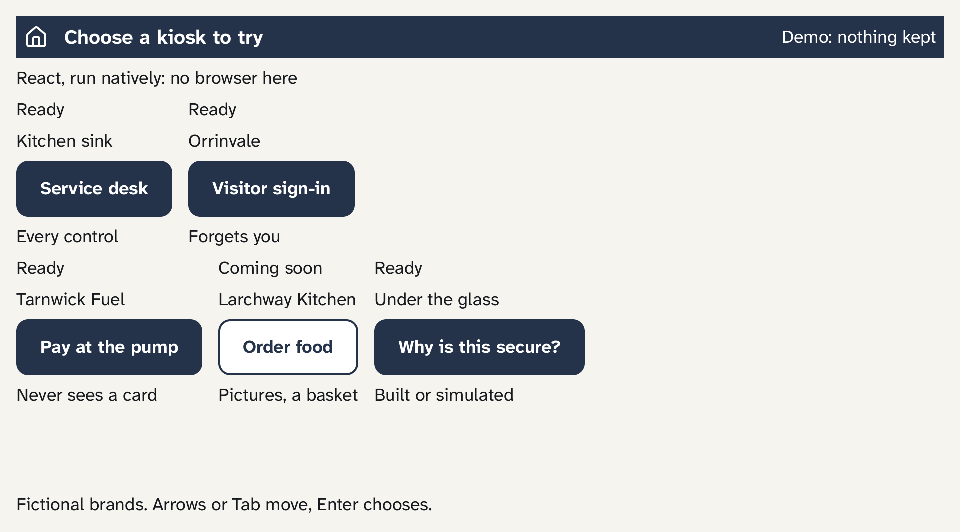
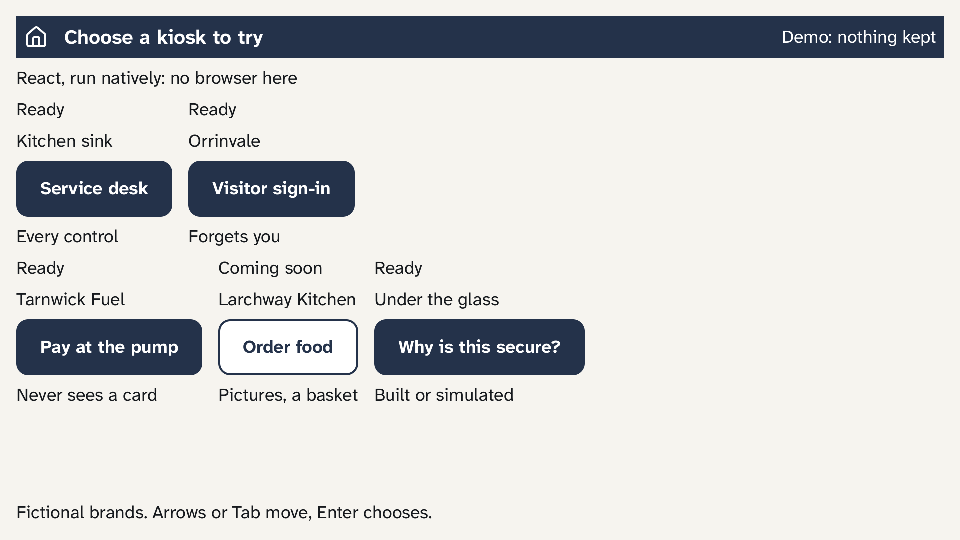
Screens fill the Pi 5's whole monitor: 1920 x 1080, 960 x 540 at scale 2
NoWayOS's window from row 0; expected lines and the README picture redrawn.

diff --git a/showcase/showcase-app/tests/preview.rs b/showcase/showcase-app/tests/preview.rs
@@ -1,6 +1,6 @@
 // SPDX-License-Identifier: MIT OR Apache-2.0
 //! The showcase's screens drawn as the Pi draws them - each in its own
-//! brand's theme, at the monitor's own pixels: the 1920 x 1064
+//! brand's theme, at the monitor's own pixels: the 1920 x 1080
 //! window at device scale 2 - to images a person can look at before
 //! the board does: set `SHOWCASE_PREVIEW_DIR` to a folder, and each
 //! screen is written there as a PNG, the launcher and each example's
@@ -28,7 +28,7 @@ use showcase_pump::generated::{
 use showcase_pump::{Approval, Stage, figures};
 
 /// The Pi 5's window.
-const WINDOW: nowayos_display::Rect = nowayos_display::Rect::new(0, 0, 1920, 1064);
+const WINDOW: nowayos_display::Rect = nowayos_display::Rect::new(0, 0, 1920, 1080);
 
 fn draw_tree<const N: usize>(tree: &Tree<N>, theme: &Theme<Rgb888>, name: &str) {
     let size = tree.viewport().size;
@@ -113,7 +113,7 @@ fn fresh() -> Showcase {
 #[test]
 fn every_pump_screen_draws() {
     let theme = brands::TARNWICK.theme();
-    let viewport = nowayos_display::Rect::new(0, 0, 1920, 1064);
+    let viewport = nowayos_display::Rect::new(0, 0, 1920, 1080);
     let approval = Approval {
         pump: 3,
         fuel: 0,

diff --git a/kiosk/showcase-kiosk-screens/tests/screens.rs b/kiosk/showcase-kiosk-screens/tests/screens.rs
@@ -7,8 +7,8 @@
 //!
 //! The kiosk's layout size is 800 x 480, where a screen must fit. Each
 //! screen is also laid out at 1920 x 1080, and as the Pi 5's monitor shows
-//! it, drawn at its own pixels: the 1920 x 1064 window at device
-//! scale 2 - a 960 x 532 screen - with each font's atlas twice the size,
+//! it, drawn at its own pixels: the 1920 x 1080 window at device
+//! scale 2 - a 960 x 540 screen - with each font's atlas twice the size,
 //! and must fit there too.
 //! Each is checked as it is built - every group hidden and every slot empty -
 //! and as the application may show it: every group visible, every slot
@@ -34,7 +34,7 @@ use showcase_kiosk_screens::generated::{Build, CAPACITY, SCREENS};
 const VIEWPORTS: [(&str, Rect, u32); 3] = [
     ("800 x 480", Rect::new(0, 0, 800, 480), 1),
     ("1920 x 1080", Rect::new(0, 0, 1920, 1080), 1),
-    ("960 x 532 at 2x", Rect::new(0, 0, 1920, 1064), 2),
+    ("960 x 540 at 2x", Rect::new(0, 0, 1920, 1080), 2),
 ];
 
 /// NoWayOS's two themes, as the UI PDs lay screens out with them.

diff --git a/showcase/showcase-app/tests/screens.rs b/showcase/showcase-app/tests/screens.rs
@@ -7,7 +7,7 @@
 //!
 //! The showcase draws in the light theme, its body text 18 px. On
 //! the Pi 5 it is laid out at the monitor's own pixels: the 1920 x
-//! 1064 window at device scale 2, a 960 x 532 screen, its text from the 36
+//! 1080 window at device scale 2, a 960 x 540 screen, its text from the 36
 //! px atlas - so each screen must fit there, and at the kiosk's 800 x 480
 //! layout size, in that theme, and at 1920 x 1080 in both of NoWayOS's
 //! themes, each with its own metrics: type scale, minimum target size and
@@ -39,8 +39,8 @@ fn cases() -> [(&'static str, Rect, TextMetrics); 4] {
     let large = Theme::<Rgb888>::high_contrast();
     [
         (
-            "960 x 532 at 2x, light",
-            Rect::new(0, 0, 1920, 1064),
+            "960 x 540 at 2x, light",
+            Rect::new(0, 0, 1920, 1080),
             light.metrics_at(2),
         ),
         (

diff --git a/showcase/showcase-app/tests/showcase.rs b/showcase/showcase-app/tests/showcase.rs
@@ -508,11 +508,11 @@ fn each_example_shows_in_its_brand_and_home_restores_the_launchers() {
 
 /// Laid out in the Pi 5's window at device scale 2 - as the UI PD
 /// does once the display announces it - the launcher and the Service desk
-/// both fill the 1920 x 1064 window at scale 2, before and after Home, and
+/// both fill the 1920 x 1080 window at scale 2, before and after Home, and
 /// everything they show fits it.
 #[test]
 fn the_launcher_and_the_service_desk_follow_the_displays_scale() {
-    let window = Rect::new(0, 0, 1920, 1064);
+    let window = Rect::new(0, 0, 1920, 1080);
     let mut stand = Stand::new();
     let large = TextMetrics::from_atlas(&REGULAR_48)
         .with_scale(2)

diff --git a/kiosk/showcase-kiosk-screens/src/sink.rs b/kiosk/showcase-kiosk-screens/src/sink.rs
@@ -61,7 +61,7 @@ use crate::generated::{
 
 /// Screen width, in pixels: the kiosk's layout size, which the tour is laid
 /// out in until the display announces its own ([`KitchenSink::resize`]):
-/// on the Pi 5, 1920 x 1064 at device scale 2, drawn at the monitor's own
+/// on the Pi 5, 1920 x 1080 at device scale 2, drawn at the monitor's own
 /// pixels.
 pub const WIDTH: u32 = 800;
 /// Screen height, in pixels.

diff --git a/kiosk/showcase-kiosk-screens/tests/sink.rs b/kiosk/showcase-kiosk-screens/tests/sink.rs
@@ -122,7 +122,7 @@ fn the_tour_follows_the_displays_layout_and_scale() {
     assert_eq!(key(&mut sink, KeyCode::ENTER), Some(START));
     assert_eq!(sink.screen(), "step-text");
     type_text(&mut sink, "ada");
-    let window = Rect::new(0, 0, 1920, 1064);
+    let window = Rect::new(0, 0, 1920, 1080);
     let large = TextMetrics::from_atlas(&REGULAR_48)
         .with_scale(2)
         .with_min_target(48);

diff --git a/DEVELOPING.md b/DEVELOPING.md
@@ -10,10 +10,10 @@ What is in Showcase, how it uses NoWayOS, and how to build and test it. What Sho
 | --- | --- | --- |
 | `kiosk/showcase-kiosk-flow` | The state machine behind a multi-step form kiosk. The application defines the steps and fields. The flow handles next, back and cancel, a review of every answer, answers that are bounded and checked as they are entered, and submission with a timeout and a limited number of retries. After a set time with no activity, or when a session reaches its maximum length, it wipes every answer, so the next person at a shared public kiosk never sees them; late timers and a clock that goes backwards cannot postpone that. `no_std`, no allocation, no `unsafe`, and no third-party code at run time | First cut, API provisional |
 | `kiosk/showcase-kiosk-contract` | The kiosk's app-UI contract: the records the kiosk's UI and application protection domains exchange over `nowayos-ipc` rings. Actions from the UI (start, a value typed, chosen or ticked, next, back, submit, cancel and so on) and reports from the application (the screen to show, a refused value, the idle warning, a countdown's time left once a second, and a session-ended record), each a fixed-size record with its own kind and version, checked on receipt with typed errors. The application's end drives `showcase-kiosk-flow`, ends the session when the UI sends a record it cannot decode, and sends exactly one session-ended record, with the reason and no answer, however a session ends. Answers travel only from the UI to the application. `no_std`, no allocation, no `unsafe` | First cut, version 1 |
-| `kiosk/showcase-kiosk-screens` | The kiosk reference screens: a synthetic, sector-neutral screen in TSX (`tsx/`) for each phase of the form flow (welcome, a step, review, submitting, submitted, failed, and the idle warning) and each kind of field (text, a choice, checkboxes, a notice with none), importing only from Screen Compiler's kit. All ten convert (with Screen Compiler's subset v1: conditional rendering, text from props, checkboxes, radio groups, input lengths and modes). The Rust Screen Compiler generates is checked in (`src/generated`) and built here against NoWayOS's UI core; each screen fits 800 x 480 (the kiosk's layout size), 1920 x 1080, and 960 x 532 at device scale 2 - the Pi 5's monitor drawn at its own pixels - in both of NoWayOS's themes, with each theme's own metrics - its type scale (body text 18 px and 24 px, at 2x from the 36 and 48 px atlases), its minimum target size and its buttons' height, as built and with every group shown and slot filled, with no fixed text cut. `gaps.txt` ranks what Screen Compiler refuses by how many screens each gap blocks: nothing now. `make screens` runs Screen Compiler on every screen and fails if either differs. `sink` is the kitchen sink: the ten screens toured with their own buttons, shaped like NoWayOS's clickable demo (`new(metrics)`, `tree`, `handle`, `action_name`; laid out at 800 x 480 until the display announces its layout and scale, `resize`) so a copy of its UI PD can show it - a demo driver, not the kiosk's flow. The reference kiosk puts the screens behind the flow: `form`, the form they ask for (four steps, six fields) and the kiosk's timeouts; `app`, what the application PD does - the flow behind the contract, the privacy reset applied when due whatever room the ring has, and out of service, the session ended, at a fault the PD finds (a timer error, a refused wake-up, a broken ring); `kiosk`, the UI that shows the screen each report from the application names and sends each action the person takes, keeping its own copies of the answers and wiping them in place - and any action not yet sent - when a session ends, and failing closed (everything wiped, the session abandoned) on a report it cannot trust; `stand_in`, a development stand-in for the service, which leaves each session's first attempt unanswered and accepts the next | First cut |
+| `kiosk/showcase-kiosk-screens` | The kiosk reference screens: a synthetic, sector-neutral screen in TSX (`tsx/`) for each phase of the form flow (welcome, a step, review, submitting, submitted, failed, and the idle warning) and each kind of field (text, a choice, checkboxes, a notice with none), importing only from Screen Compiler's kit. All ten convert (with Screen Compiler's subset v1: conditional rendering, text from props, checkboxes, radio groups, input lengths and modes). The Rust Screen Compiler generates is checked in (`src/generated`) and built here against NoWayOS's UI core; each screen fits 800 x 480 (the kiosk's layout size), 1920 x 1080, and 960 x 540 at device scale 2 - the Pi 5's monitor drawn at its own pixels - in both of NoWayOS's themes, with each theme's own metrics - its type scale (body text 18 px and 24 px, at 2x from the 36 and 48 px atlases), its minimum target size and its buttons' height, as built and with every group shown and slot filled, with no fixed text cut. `gaps.txt` ranks what Screen Compiler refuses by how many screens each gap blocks: nothing now. `make screens` runs Screen Compiler on every screen and fails if either differs. `sink` is the kitchen sink: the ten screens toured with their own buttons, shaped like NoWayOS's clickable demo (`new(metrics)`, `tree`, `handle`, `action_name`; laid out at 800 x 480 until the display announces its layout and scale, `resize`) so a copy of its UI PD can show it - a demo driver, not the kiosk's flow. The reference kiosk puts the screens behind the flow: `form`, the form they ask for (four steps, six fields) and the kiosk's timeouts; `app`, what the application PD does - the flow behind the contract, the privacy reset applied when due whatever room the ring has, and out of service, the session ended, at a fault the PD finds (a timer error, a refused wake-up, a broken ring); `kiosk`, the UI that shows the screen each report from the application names and sends each action the person takes, keeping its own copies of the answers and wiping them in place - and any action not yet sent - when a session ends, and failing closed (everything wiped, the session abandoned) on a report it cannot trust; `stand_in`, a development stand-in for the service, which leaves each session's first attempt unanswered and accepts the next | First cut |
 | `pds/kiosk` (`showcase-kiosk-stand-in`), `pds/kiosk-ui` (`showcase-kiosk-ui`) | The reference kiosk (`systems/kiosk.system` and its Pi 5 variant, `systems/rpi5b_2gb/`): the application PD runs `showcase-kiosk-flow` on the reference form behind the app-UI contract's application end, woken by the timer PD at each deadline - the idle warning after 15 s with no input, the privacy reset 15 s later, a submission's 5 s timeout, and each second of a countdown - and asks the service stand-in, never sending the answers anywhere; the UI PD shows the screen the application names, on NoWayOS's UI loop - and the seconds left of the idle warning and the confirmation, each second as the application reports them, changing only the digits that change - only they are drawn and copied to the display, their size logged - and sends it what the person does over two rings. Both fail closed on the faults they find: the application, at a timer error, a refused wake-up or a broken ring, ends the session and goes out of service; the UI, at a report it cannot decode, wipes everything, abandons the session and shows the welcome screen, and at a broken ring or display contract also goes out of service at once, then presents that screen when the display can take it - if it cannot, the screen may still show the last frame. A timer that goes silent, or a PD that faults, is left to a watchdog and a supervisor, which this demo system does not have. The same display, input broker, UART input, USB host and timer PDs as the kitchen sink. No device, interrupt or physical address in either (roles `app` and `ui`), no heap, no `unsafe`. A demo system: the UART input PD is a development route, and the service a stand-in built into the application PD's program, named `showcase-kiosk-stand-in` so that NoWayOS's development-only rule (`*-stand-in.elf`) refuses it in a product system | First cut |
 | `pds/screens-ui` (`showcase-screens-ui`), `pds/display`, `pds/input-broker`, `pds/uart-input`, `pds/usb-host`, `pds/timer` | The kitchen sink on a screen (`systems/kitchen-sink.system` and its Pi 5 variant, `systems/rpi5b_2gb/`): a UI PD that shows the ten reference screens and tours them with their own buttons (`sink`), on NoWayOS's UI loop; and NoWayOS's display PD, input broker, UART input PD, USB host PD and timer PD, each run from a program of Showcase's own (`showcase-display` and so on). On the Pi 5 the display PD shows each frame on the HDMI monitor, and the keys come from a keyboard and mouse plugged into the Pi (a USB host PD for each of RP1's two controllers, the Pi variant only) and from a terminal on the Mac, through the Debug Probe and the debug UART - a development route only: `showcase-uart-input` is development-only by its name (NoWayOS's grant rules, `*-uart-input.elf`), refused in a product system. A UI app, not the kiosk: its screens follow the sink's fixed tour | First cut |
-| `showcase/showcase-app` | The showcase: the launcher the Pi boots to - one tile per example kiosk, each with its status, fictional brand, title and one line, and a header with the demo line - in TSX (`tsx/launcher.tsx`), and the bar with Home above every Service desk screen (`tsx/service-desk-bar.tsx`), both converted by Screen Compiler (`src/generated`, `gaps.txt`). `Showcase` is the UI that shows the launcher or an example: the Service desk tile opens the reference kiosk (`showcase-kiosk-screens`' `KioskUi`, each screen inside the bar, its numbers moved past the screen's own); Home, or the end of a session however it ends, wipes the example - its copies, its outbox and the application's session - and shows the launcher. The visitor sign-in tile opens `showcase-visitor` under a bar of its own (`tsx/visitor-bar.tsx`), and the pay at the pump tile `showcase-pump` under its own (`tsx/pump-bar.tsx`). Each example talks to its own application PD over its own rings. The third tile is a program's own: `Extra` fills it - its brand, title and line in slots, and a button - and gives its example, a form UI of its screens under its own bar (`frame_with`), driven over the app-UI contract on application 3's rings, which the system description gives it, and wiped as the showcase's own are; the showcase's own program adds none (`NoExtra`), so the tile is hidden and its place on the grid empty. The other tiles say "Coming soon". Laid out at the Pi 5's monitor's own pixels once the display announces them - 960 x 532 at device scale 2 (`resize`). The launcher and each example are drawn in their own fictional brand's theme (`brands`): NoWayOS's light theme in the brand's colour, each with a high-contrast version, all put through NoWayOS's contrast check after `r5g6b5` in the tests; the UI PD switches theme as an example opens and back at the launcher. Each bar and header shows its example's icon, one of Lucide's (ISC) drawn from a build-time mask: an image links only the icons its screens name | First cut |
+| `showcase/showcase-app` | The showcase: the launcher the Pi boots to - one tile per example kiosk, each with its status, fictional brand, title and one line, and a header with the demo line - in TSX (`tsx/launcher.tsx`), and the bar with Home above every Service desk screen (`tsx/service-desk-bar.tsx`), both converted by Screen Compiler (`src/generated`, `gaps.txt`). `Showcase` is the UI that shows the launcher or an example: the Service desk tile opens the reference kiosk (`showcase-kiosk-screens`' `KioskUi`, each screen inside the bar, its numbers moved past the screen's own); Home, or the end of a session however it ends, wipes the example - its copies, its outbox and the application's session - and shows the launcher. The visitor sign-in tile opens `showcase-visitor` under a bar of its own (`tsx/visitor-bar.tsx`), and the pay at the pump tile `showcase-pump` under its own (`tsx/pump-bar.tsx`). Each example talks to its own application PD over its own rings. The third tile is a program's own: `Extra` fills it - its brand, title and line in slots, and a button - and gives its example, a form UI of its screens under its own bar (`frame_with`), driven over the app-UI contract on application 3's rings, which the system description gives it, and wiped as the showcase's own are; the showcase's own program adds none (`NoExtra`), so the tile is hidden and its place on the grid empty. The other tiles say "Coming soon". Laid out at the Pi 5's monitor's own pixels once the display announces them - 960 x 540 at device scale 2 (`resize`). The launcher and each example are drawn in their own fictional brand's theme (`brands`): NoWayOS's light theme in the brand's colour, each with a high-contrast version, all put through NoWayOS's contrast check after `r5g6b5` in the tests; the UI PD switches theme as an example opens and back at the launcher. Each bar and header shows its example's icon, one of Lucide's (ISC) drawn from a build-time mask: an image links only the icons its screens name | First cut |
 | `showcase/showcase-visitor` | The showcase's visitor sign-in: a visitor book that forgets you, at a fictional research centre (Orrinvale). Its eleven screens in TSX, converted by Screen Compiler (`tsx/`, `src/generated`, `gaps.txt`); its form - name, organisation, who you visit, why, the site rules - and timeouts; `Visitor`, the screens as `showcase-kiosk-screens`' form UI (`FormUi`) shows them; and `EXAMPLE`, what its application PD runs, with a stand-in for the building service that issues a pass number - or fails every attempt of a session after *Demo: service down*. The pass shows a number, never a name, every answer wiped first, and clears itself after 10 s, counting down. Not access control: no door, fire roll or badge | First cut |
 | `pds/showcase-ui` (`showcase-ui`), `pds/visitor` (`showcase-visitor-stand-in`), `pds/pump` (`showcase-pump-stand-in`) | The showcase's UI PD (`systems/showcase.system` and its Pi 5 variant): `pds/kiosk-ui`'s library - now a library and a program - driving `Showcase`; the same rings, drawing and failing closed, with a pair of rings to each example's application PD. The library lays the screens out in the display's layout at its scale and draws only what changed while one tree shows. The visitor sign-in's and the pay at the pump's application PDs: `pds/kiosk`'s library (`showcase_kiosk_stand_in`) on `showcase_visitor::EXAMPLE` and `showcase_pump::EXAMPLE`, each service a stand-in, so development-only by its name. The showcase system is the reference kiosk's with this UI program and the two applications, each with exactly the grants of the Service desk's | First cut |
 | `pds/run-watchdog` (`showcase-run-watchdog`), `pds/watchdog-stand-in` (`showcase-watchdog-stand-in`) | The showcase's tour on the Pi 5 (`systems/rpi5b_2gb/showcase-tour.system`): the showcase as a test system with a run of 300 s - NoWayOS's watchdog PD, watching no PD and keeping the PM watchdog armed, and its stand-in ticking it - so `make pi-run PI_SYSTEMS=showcase-tour` plays and checks the whole showcase script on the board. `showcase/showcase-app/tests/tour.rs` keeps the tour the showcase's own description, grants and script, plus the run. The card's demo image stays `showcase`, which runs until the power goes |
